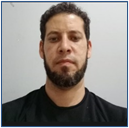
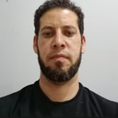
Actualizar Foto
Se actualizo Foto

diff --git a/index.html b/index.html
@@ -14,7 +14,7 @@
 
         <div class="header-content">
 
-            <img src="images/perfil.png" alt="Francisco Díaz" class="profile-img">
+            
 
             <div class="header-text">
                 <h1>Francisco José Díaz Villarreal</h1>
@@ -26,11 +26,12 @@
                 <div class="links">
                     <a href="https://github.com/Fridnansen" target="_blank">GitHub</a>
                     <a href="https://linkedin.com/in/fridnansen" target="_blank">LinkedIn</a>
-                    <a href="images\CV-Abril-2026-Francisco Diaz (Español).pdf" target="_blank">Download CV in Spanish</a>
-                    <a href="images\CV-Abril-2026-Francisco Diaz (Ingles).pdf" target="_blank">Download CV in English</a>
+                    <a href="images\CV-Abril-2026-Francisco Diaz (Español).pdf" target="_blank">CV(Spanish)</a>
+                    <a href="images\CV-Abril-2026-Francisco Diaz (Ingles).pdf" target="_blank">CV(English)</a>
                 </div>
 
             </div>
+            <img src="images/perfil.png" alt="Francisco Díaz" class="profile-img">
 
     </header>
 
@@ -242,10 +243,14 @@
     <section>
 
         <h2>Education</h2>
-
-        <p>PhD Applied Sciences</p>
-        <p>MSc Applied Informatics</p>
-        <p>Computer Engineering</p>
+        <ul>
+            <li>2024: PhD Applied Sciences - ULA</li>
+            <li>2023: MSc Applied Informatics - ISJPAE</li>
+            <li>2025: Diploma in Initialization in Programming and Data Analysis (Python) - UBA</li>
+            <li>2004: Computer Engineering - University of Buenos Aires - UVM </li>
+            <li>2023: Professional Specialization in Video Game Programming (C#) - CFP</li>
+            <li>2022: Programmer Track (TypeScript and SQL) - CFP</li>
+        </ul>
 
     </section>
 
@@ -253,10 +258,12 @@
 
         <h2>Contact</h2>
 
-        <p>Email: villadifran@gmail.com</p>
-        <p>Phone: +54 11 4025-7257</p>
-        <p>Location: Buenos Aires, Argentina</p>
-
+        <ul>
+            <li>Email: villadifran@gmail.com</li>
+            <li>Phone: +54 11 4025-7257</li>
+            <li>Location: Buenos Aires, Argentina</li>
+        </ul>
+        
     </section>
 
     <footer>

diff --git a/style.css b/style.css
@@ -4,11 +4,63 @@ margin:0;
 background:#f5f5f5;
 }
 
-header{
-background:#222;
-color:white;
-padding:40px;
-text-align:center;
+.header {
+    background: #0d1117;
+    color: white;
+    padding: 50px 20px;
+}
+
+.header-content {
+    display: flex;
+    align-items: center;
+    justify-content: center;
+    max-width: 1000px;
+    margin: auto;
+    gap: 30px;
+}
+
+/* TEXTO */
+.header-text {
+    text-align: center;
+    max-width: 800px;
+}
+
+.header-text h1 {
+    margin: 0;
+    font-size: 30px;
+}
+
+h2 {
+    color: rgb(1, 30, 77);
+}
+.subtitle {
+    text-align: center;
+    margin: 10px 0 20px;
+    color: #cbd5f5;
+}
+
+/* FOTO A LA DERECHA */
+.profile-img {
+    width: 140px;
+    height: 140px;
+    object-fit: cover;
+    border-radius: 10%;
+    border: 10px solid #121314;
+    box-shadow: 0 0 40px rgba(59, 130, 246, 0.5);
+}
+
+/* LINKS */
+.links a {
+    text-decoration: none;
+    color: white;
+    background: rgba(59, 130, 246, 0.5);
+    padding: 8px 15px;
+    border-radius: 6px;
+    transition: 0.3s;
+}
+
+.links a:hover {
+    background: #2563eb;
 }
 
 .links a{
@@ -36,4 +88,15 @@ text-align:center;
 padding:20px;
 background:#222;
 color:white;
+}
+
+@media (max-width: 768px) {
+    .header-content {
+        flex-direction: column-reverse;
+        text-align: center;
+    }
+
+    .profile-img {
+        margin-bottom: 20px;
+    }
 }
